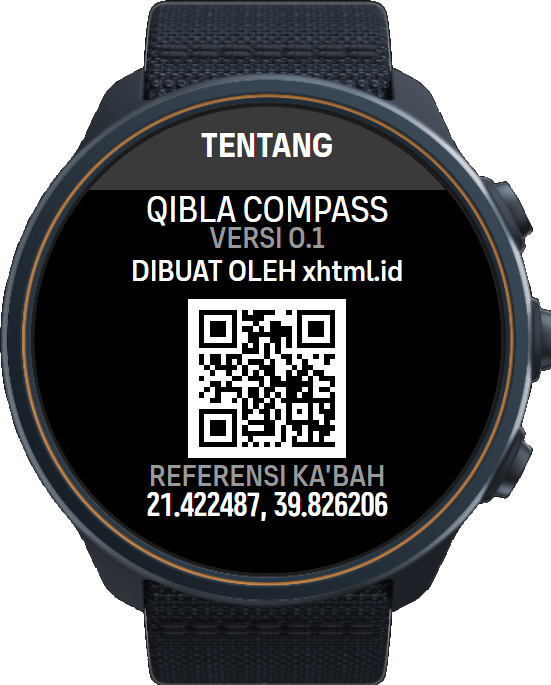
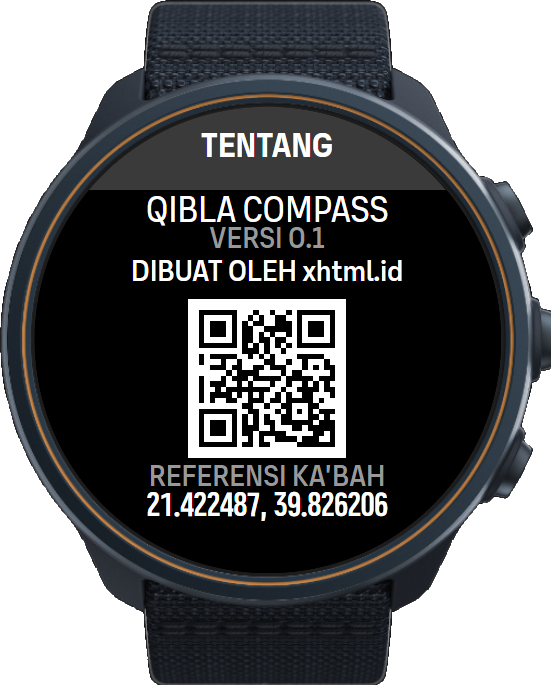
Replace about.xhtml.id contact with https://qibla.xhtml.id/
Regenerate the About-screen QR code for the new address and patch it
into the About screenshots and the store listing preview. Update the
contact links in the README, store descriptions, privacy policy and
terms of use.

Changed region(s): [[0.3394, 0.4292, 0.6171, 0.6745]]

diff --git a/about.html b/about.html
@@ -7,7 +7,7 @@
     <div class="sp-b-s p-hc cm-mid" style="top:calc(29% - 50%e);">{{versionLabel}} 0.1</div>
     <div class="sp-b-s p-hc" style="top:calc(36% - 50%e);">{{authorLabel}} xhtml.id</div>
 
-    <!-- Scannable link to https://about.xhtml.id -->
+    <!-- Scannable link to https://qibla.xhtml.id/ -->
     <img src="qr.png" style="position:absolute;left:33%;top:41.5%;width:34%;height:34%;" />
 
     <div class="sp-b-s p-hc cm-mid" style="top:calc(80% - 50%e);">{{kaabaLabel}}</div>

diff --git a/store-submission/terms-of-use.md b/store-submission/terms-of-use.md
@@ -11,7 +11,7 @@ Last updated: 25 September 2026
 5. **Limitation of liability.** To the extent permitted by law, xhtml.id is not liable for any loss or damage resulting from the use of the app.
 6. **Suunto.** The app runs on Suunto watches and is distributed through the SuuntoPlus Store. Suunto's own terms apply to the watch, the Suunto app and the store.
 7. **Changes.** These terms may be updated with new versions of the app.
-8. **Contact.** https://about.xhtml.id
+8. **Contact.** https://qibla.xhtml.id/
 
 ## Bahasa Indonesia
 
@@ -22,4 +22,4 @@ Last updated: 25 September 2026
 5. **Batasan tanggung jawab.** Sejauh diizinkan hukum, xhtml.id tidak bertanggung jawab atas kerugian yang timbul dari penggunaan aplikasi.
 6. **Suunto.** Aplikasi berjalan di jam Suunto dan didistribusikan lewat SuuntoPlus Store. Ketentuan Suunto sendiri berlaku untuk jam, aplikasi Suunto, dan store.
 7. **Perubahan.** Ketentuan ini dapat diperbarui bersama versi baru aplikasi.
-8. **Kontak.** https://about.xhtml.id
+8. **Kontak.** https://qibla.xhtml.id/

diff --git a/store-submission/privacy-policy.md b/store-submission/privacy-policy.md
@@ -19,7 +19,7 @@ Qibla Compass is a SuuntoPlus sports app made by xhtml.id.
 Your workout, including the GPS track of the exercise during which you used the app, is recorded and synced by the Suunto watch and the Suunto app according to Suunto's own privacy policy. Qibla Compass does not add anything to that data.
 
 **Contact**
-https://about.xhtml.id
+https://qibla.xhtml.id/
 
 ## Bahasa Indonesia
 
@@ -38,4 +38,4 @@ Qibla Compass adalah aplikasi olahraga SuuntoPlus buatan xhtml.id.
 Latihan Anda, termasuk jalur GPS latihan saat aplikasi dipakai, direkam dan disinkronkan oleh jam dan aplikasi Suunto sesuai kebijakan privasi Suunto sendiri. Qibla Compass tidak menambahkan apa pun ke data tersebut.
 
 **Kontak**
-https://about.xhtml.id
+https://qibla.xhtml.id/

diff --git a/README.md b/README.md
@@ -129,7 +129,7 @@ The step illustrations are drawings, not screenshots. Labels on your watch or in
 - `about.html` — About screen
 - `id.json`, `en.json` — localization
 - `arrow.png` — arrow artwork reference (on the watch the arrow is drawn on canvas in `qibla.html`)
-- `qr.png` — QR code for https://about.xhtml.id on the About screen
+- `qr.png` — QR code for https://qibla.xhtml.id/ on the About screen
 - `tests/test-qibla.js` — calculation and vibration-latch tests
 - `tools/hitung-kiblat.js` — prints the Qibla bearing for any coordinate, using the watch formula
 - `docs/` — Indonesian Qibla coordinate guide and step illustrations

diff --git a/store-submission/description-id.md b/store-submission/description-id.md
@@ -44,7 +44,4 @@ Navigasi / Utilitas
 Suunto Race S (sudah diuji). Aplikasi memakai tata letak layar yang sama dengan Suunto Race, Race 2, Ocean, Ocean Lite, dan Vertical 2, tetapi baru diuji di Race S.
 
 ## Pembuat
-xhtml.id — https://about.xhtml.id
-
-## Situs web
-https://qibla.xhtml.id/
+xhtml.id — https://qibla.xhtml.id/

diff --git a/store-submission/description-en.md b/store-submission/description-en.md
@@ -44,7 +44,4 @@ Navigation / Utility
 Suunto Race S (tested). The app uses the display layout shared by Suunto Race, Race 2, Ocean, Ocean Lite and Vertical 2, but it has only been tested on Race S.
 
 ## Developer
-xhtml.id — https://about.xhtml.id
-
-## Website
-https://qibla.xhtml.id/
+xhtml.id — https://qibla.xhtml.id/
